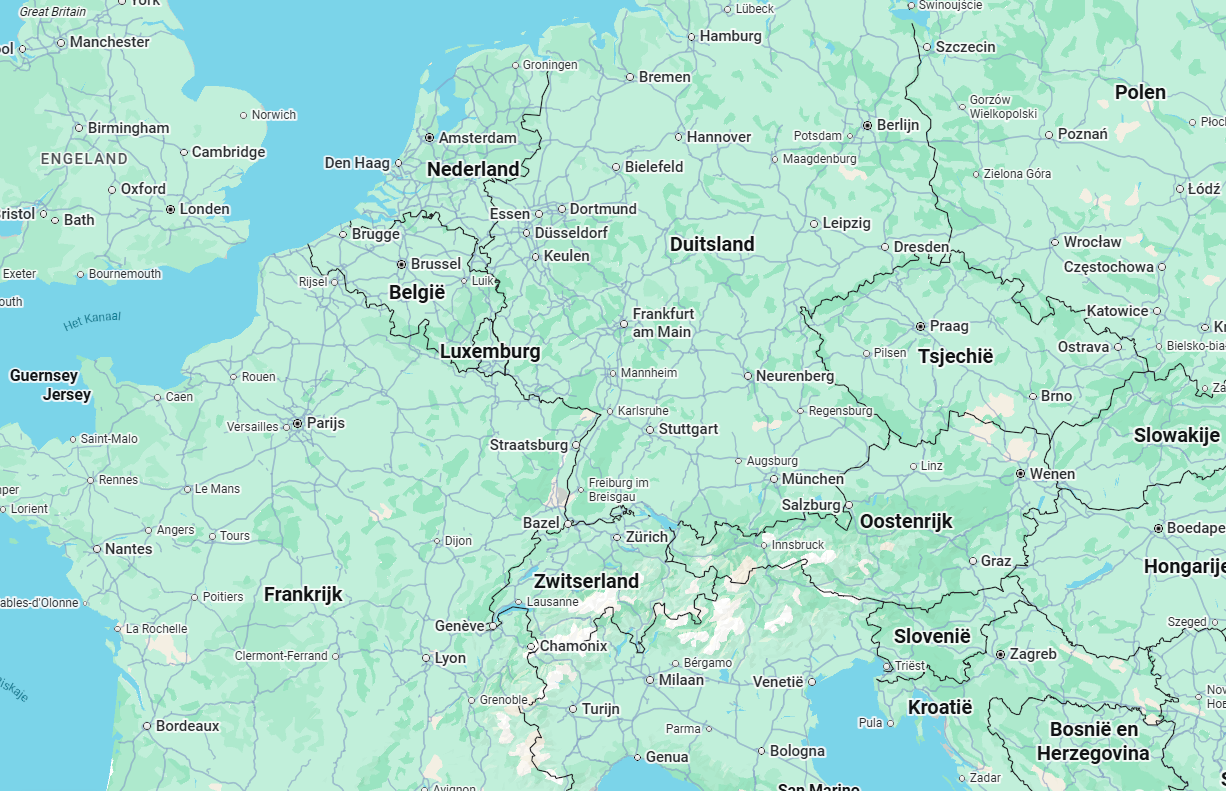
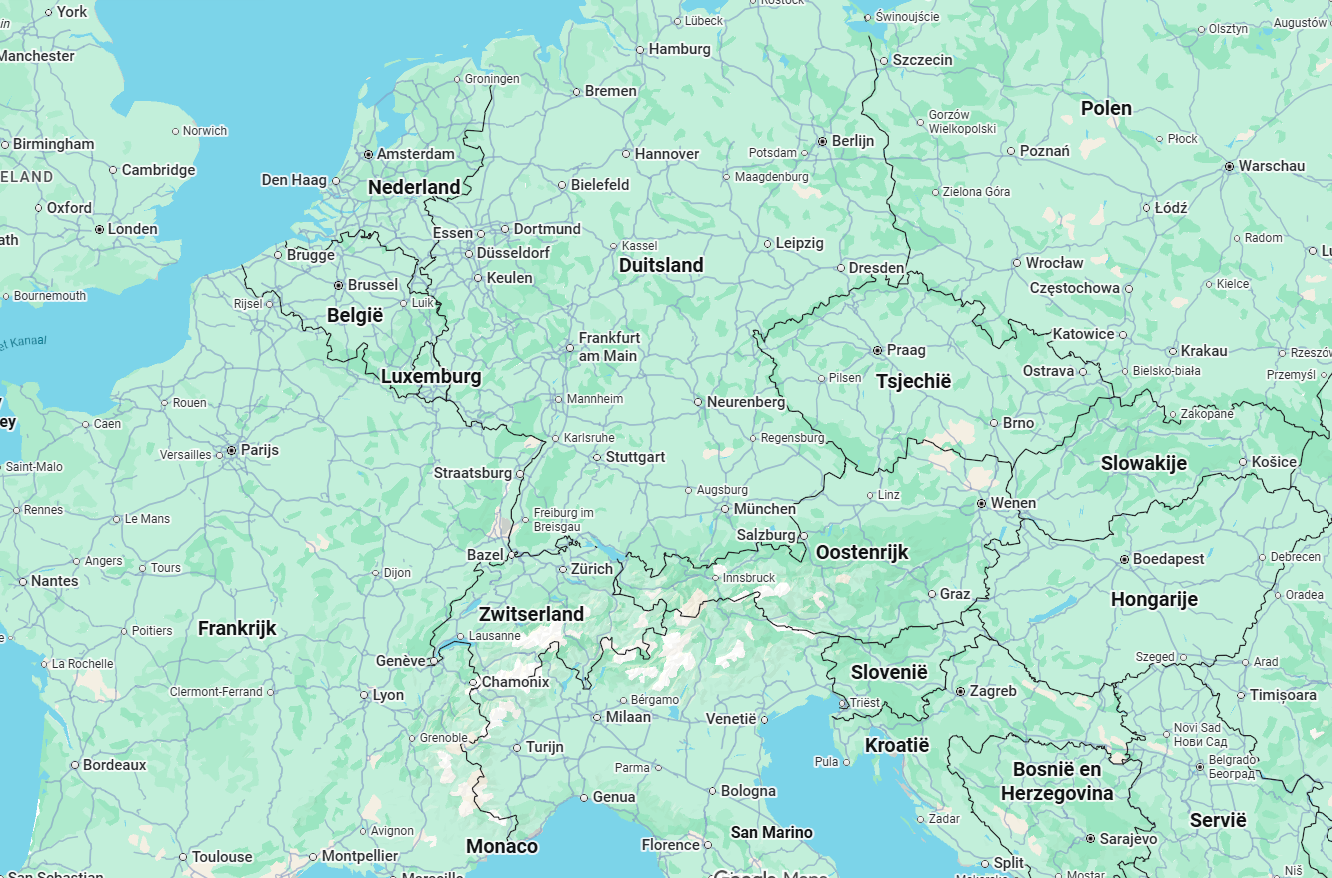
EuropeMap added

diff --git a/Routing.py b/Routing.py
@@ -21,8 +21,8 @@ MAP1_CORNER_1: Tuple[float, float] = (51.084598, 4.216587)  # bottom-left (lat, 
 MAP1_CORNER_2: Tuple[float, float] = (51.95, 6.05)  # top-right (lat, lon) – adjust when you know it
 
 # Large MAP2:
-MAP2_CORNER_1: Tuple[float, float] = (44.238926, -0.888387)
-MAP2_CORNER_2: Tuple[float, float] = (53.727621, 19.859242)
+MAP2_CORNER_1: Tuple[float, float] = (43.312459, -1.987007)
+MAP2_CORNER_2: Tuple[float, float] = (54.65, 22.928525)
 
 
 def HaversineDistance(
@@ -271,6 +271,6 @@ def RouteVisualization(
         # Avoid empty polyline; could also raise
         return Polyline(points=[Point(0, 0, 0), Point(1, 0, 0)], color="red")
 
-    return Polyline(points=points, color="red", line_thickness=6)
+    return Polyline(points=points, color="red", line_thickness=8)
 
 

diff --git a/TestFunctions/TestLevel3/routing_test.py b/TestFunctions/TestLevel3/routing_test.py
@@ -28,8 +28,8 @@ class RouteTest(Base):
     """Simple test model: visualize one ORS route as a Polyline."""
 
     # Inputs: (lat, lon)
-    start = Input((51.15, 5))
-    end = Input((51.547740, 5.5))
+    start = Input((48.762661, 2.317850))
+    end = Input((50.036003, 14.419264))
     machine_type = Input("Vehicle")
 
     @Attribute